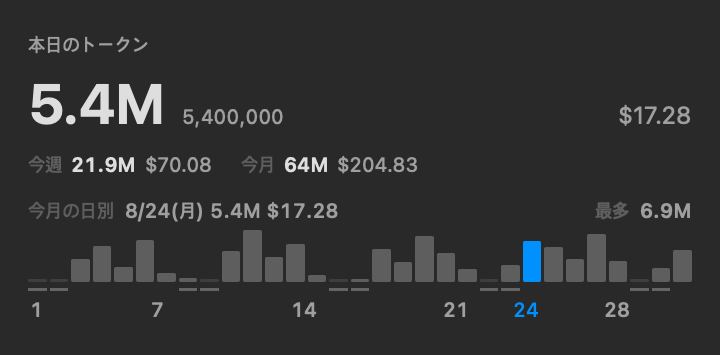
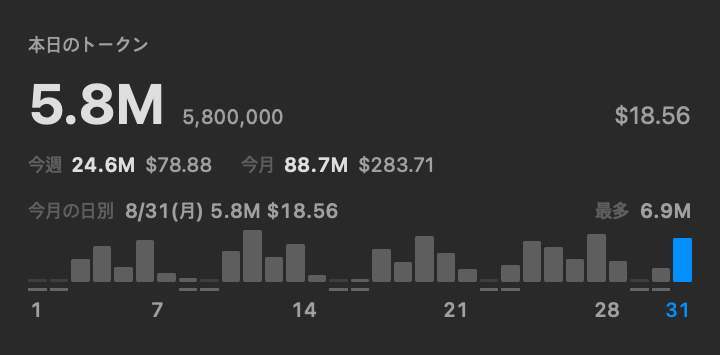
fix: drop a regular axis label that sits next to today's
On a full month each axis column is about 9pt while a two-digit label is about 11pt, so
when today fell right beside a seven-multiple the pair rendered with no gap at all and read
as one number -- "21 22" on the 22nd, "28 29" on the 29th. Found by rendering August's real
data at the 22nd, 27th, 29th, 30th and 31st.

A regular label within two days of today is now suppressed. Today's own label is never
suppressed, so the axis always carries at least one number, and losing the neighbour costs
nothing: knowing where today is tells you where the day beside it is.

The guard walks all 31 possible "today" values and asserts no two surviving labels are
closer than three columns. Its helper only iterates up to today, matching production -- the
previous test measured labels for days after today, which the series never contains.

The screenshot had the same class of mistake: it drew 31 bars with today at the 24th, a
state the app cannot reach, since the series always ends at today. Today is now the last
day of the demo month.

diff --git a/Tests/PokeTokenBarTests/MonthDailyTrendTests.swift b/Tests/PokeTokenBarTests/MonthDailyTrendTests.swift
@@ -367,11 +367,51 @@ final class MonthDailyTrendTests: XCTestCase {
     /// 한 달 전체(31일)에서 라벨은 6개다 — 1·7·14·21·28 + 오늘. 라벨이 늘어나면 서로 겹치므로
     /// 개수 자체를 고정한다.
     func testAxisLabelCountForAFullMonthStaysSmallEnoughToFit() {
-        let today = "2026-08-24"
-        let labels = (1...31).compactMap {
+        // 달이 다 찬 시점(31일) — 라벨 6개가 상한이다.
+        XCTAssertEqual(labels(inAugustWithToday: "2026-08-31"), ["1", "7", "14", "21", "28", "31"])
+        // 달 중간(24일)엔 축이 24일에서 끝나므로 28 은 아예 칼럼이 없다.
+        XCTAssertEqual(labels(inAugustWithToday: "2026-08-24"), ["1", "7", "14", "21", "24"])
+    }
+
+    /// 오늘이 정기 라벨 **바로 옆**이면 그 정기 라벨을 지운다. 안 지우면 한 달이 찬 축(칼럼 약 9pt,
+    /// 두 자리 숫자 약 11pt)에서 `21 22`·`28 29` 가 간격 없이 붙어 한 숫자로 읽힌다 —
+    /// 8월 실데이터를 22·27·29·30·31일 시점으로 렌더해서 확인한 결함이다.
+    func testARegularLabelNextToTodayIsDroppedSoTheTwoCannotCollide() {
+        // 22일: 21 을 지운다(간격 1).
+        XCTAssertEqual(labels(inAugustWithToday: "2026-08-22"), ["1", "7", "14", "22"])
+        // 29일: 28 을 지운다(간격 1).
+        XCTAssertEqual(labels(inAugustWithToday: "2026-08-29"), ["1", "7", "14", "21", "29"])
+        // 30일: 간격 2 — 아직 좁으므로 지운다.
+        XCTAssertEqual(labels(inAugustWithToday: "2026-08-30"), ["1", "7", "14", "21", "30"])
+        // 31일: 간격 3 — 충분히 떨어졌으므로 28 을 남긴다.
+        XCTAssertEqual(labels(inAugustWithToday: "2026-08-31"), ["1", "7", "14", "21", "28", "31"])
+        // 오늘이 정기 라벨 자신이면 중복 없이 하나만.
+        XCTAssertEqual(labels(inAugustWithToday: "2026-08-21"), ["1", "7", "14", "21"])
+        // 1일 근처: 2일이 오늘이면 1 을 지운다 — 그래도 오늘 라벨이 남아 축이 비지 않는다.
+        XCTAssertEqual(labels(inAugustWithToday: "2026-08-02"), ["2"])
+    }
+
+    /// 어떤 날이 오늘이어도 라벨은 최소 1개(=오늘)다. 축이 완전히 비면 방향 감각이 사라진다.
+    func testTodayIsNeverSuppressedSoTheAxisIsNeverEmpty() {
+        for day in 1...31 {
+            let today = String(format: "2026-08-%02d", day)
+            let all = labels(inAugustWithToday: today)
+            XCTAssertTrue(all.contains("\(day)"), "\(today) 의 오늘 라벨이 사라졌다: \(all)")
+            // 인접 라벨이 남아 있지 않은지 — 붙어 보이는 쌍이 없어야 한다.
+            let numbers = all.compactMap(Int.init).sorted()
+            for (a, b) in zip(numbers, numbers.dropFirst()) {
+                XCTAssertGreaterThanOrEqual(b - a, 3, "\(today): \(a) 와 \(b) 라벨이 붙는다")
+            }
+        }
+    }
+
+    /// 8월 축의 라벨 목록. **오늘까지만** 돈다 — 프로덕션 시리즈는 항상 오늘에서 끝나므로
+    /// 오늘 이후 날짜에는 칼럼 자체가 없다(31일까지 돌면 존재할 수 없는 라벨을 재게 된다).
+    private func labels(inAugustWithToday today: String) -> [String] {
+        let lastDay = Int(today.suffix(2)) ?? 0
+        return (1...lastDay).compactMap {
             DailyTrendMetrics.axisLabel(for: String(format: "2026-08-%02d", $0), today: today)
         }
-        XCTAssertEqual(labels, ["1", "7", "14", "21", "24", "28"])
     }
 
     /// 주말이 어느 요일인지는 **로케일이 정한다**(금·토인 지역도 있다). 달력을 주입해 그 축이

diff --git a/Sources/PokeTokenBar/UI/PopoverView.swift b/Sources/PokeTokenBar/UI/PopoverView.swift
@@ -918,16 +918,27 @@ enum DailyTrendMetrics {
     }
 
     /// 축에 숫자를 붙일 날인가 — 1일, 7일 간격, 그리고 오늘.
+    ///
     /// 오늘을 항상 붙이는 이유: 오늘 사용량이 적으면 막대가 바닥 눈금 한 줄이라 강조색만으로는
     /// 위치를 못 찾는다(31일 렌더에서 실제로 안 보였다). 축의 숫자가 그때 유일한 단서다.
-    static func axisLabel(for date: String, today: String, labelInterval: Int = 7) -> String? {
+    ///
+    /// **오늘 옆의 정기 라벨은 지운다.** 한 달이 다 찬 축은 칼럼이 약 9pt 인데 두 자리 숫자는
+    /// 약 11pt 라, 오늘이 7의 배수 바로 옆이면(22일·29일 등) `21 22` 가 간격 없이 붙어 한 숫자로
+    /// 읽힌다(8월 실데이터로 렌더해서 확인했다). 오늘은 절대 지우지 않으므로 라벨이 0개가 되는
+    /// 상태는 없고, 인접한 정기 라벨 하나를 잃는 대가는 없다 — 오늘 위치를 알면 그 옆도 안다.
+    static func axisLabel(for date: String, today: String, labelInterval: Int = 7,
+                          minimumSeparation: Int = 3) -> String?
+    {
         // `Int(...)` 옵셔널 해제는 API 강제다 — 시리즈의 날짜는 항상 "yyyy-MM-dd" 라 실패하지
         // 않는다(테스트할 분기가 아니다).
         guard let dayOfMonth = Int(date.suffix(2)) else { return nil }
         if date == today { return "\(dayOfMonth)" }
-        if dayOfMonth == 1 { return "1" }
-        if labelInterval > 0, dayOfMonth % labelInterval == 0 { return "\(dayOfMonth)" }
-        return nil
+
+        let isRegular = dayOfMonth == 1 || (labelInterval > 0 && dayOfMonth % labelInterval == 0)
+        guard isRegular else { return nil }
+        if let todayOfMonth = Int(today.suffix(2)),
+           abs(dayOfMonth - todayOfMonth) < minimumSeparation { return nil }
+        return "\(dayOfMonth)"
     }
 
     /// `calendar` 는 테스트 주입 구멍 — 주말이 어느 요일인지는 로케일이 정한다(금·토인 지역도

diff --git a/Tests/PokeTokenBarTests/ScreenshotGenTests.swift b/Tests/PokeTokenBarTests/ScreenshotGenTests.swift
@@ -26,7 +26,7 @@ final class ScreenshotGenTests: XCTestCase {
         480_000, 0, 4_100_000, 6_900_000, 3_300_000, 5_100_000, 900_000,
         0, 140_000, 4_400_000, 2_600_000, 6_100_000, 3_900_000, 1_700_000,
         0, 2_200_000, 5_400_000, 4_700_000, 3_050_000, 6_400_000, 2_800_000,
-        0, 1_900_000, 4_200_000,
+        0, 1_900_000, 5_800_000,
     ]
 
     @MainActor
@@ -46,7 +46,10 @@ final class ScreenshotGenTests: XCTestCase {
     @MainActor
     private func render(language: AppLanguage) throws -> Data {
         let l = L(language)
-        let today = "2026-08-24"
+        // "오늘"은 반드시 시리즈의 **마지막** 날이다 — 프로덕션 시리즈는 오늘에서 끝나므로,
+        // 31개 막대에 오늘을 24일로 찍으면 앱이 절대 도달할 수 없는 상태를 문서에 싣는 셈이다
+        // (오늘 이후 7일이 그려진 그림). 달이 다 찬 시점 = 오늘이 말일.
+        let today = "2026-08-31"
         let series = Self.demoDailyTokens.enumerated().map { index, value in
             DailyUsage(date: String(format: "2026-08-%02d", index + 1),
                        inputTokens: value / 4, outputTokens: value / 4,
